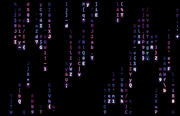
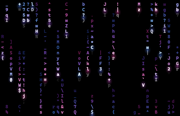
Add Rainbow Spectrum (Vivid) theme and start with a full screen
- New rainbowVivid color: the Pastel theme's 8 hue families at full
  saturation (light = 20% white, medium = pure hue, dark = 70% brightness).
- RainSimulation.prewarm() fast-forwards each new simulation to a steady
  state, so the saver, preview and thumbnails open on a filled screen.
- Regenerated picker thumbnails; README updated for 1.1.0.

diff --git a/Sources/Core/Palette.swift b/Sources/Core/Palette.swift
@@ -73,7 +73,7 @@ extension [[RGB]] {
 
 /// The rain color palette. Raw values are persisted, so don't rename them.
 enum MatrixColor: String, CaseIterable, Sendable {
-    case tokyoNight, rainbowSpectrum
+    case tokyoNight, rainbowSpectrum, rainbowVivid
     case matrixGreen, emerald, lime, mint, cyan, iceBlue, azure, violet
     case magenta, pink, red, orange, amber, gold, white, rainbow
 
@@ -81,6 +81,7 @@ enum MatrixColor: String, CaseIterable, Sendable {
         switch self {
         case .tokyoNight: "Tokyo Night (Neon)"
         case .rainbowSpectrum: "Rainbow Spectrum (Pastel)"
+        case .rainbowVivid: "Rainbow Spectrum (Vivid)"
         case .matrixGreen: "Matrix Green"
         case .emerald: "Emerald"
         case .lime: "Lime"
@@ -104,6 +105,7 @@ enum MatrixColor: String, CaseIterable, Sendable {
         switch self {
         case .tokyoNight: .families(Self.tokyoNightNeon)
         case .rainbowSpectrum: .families(Self.pastelRainbow)
+        case .rainbowVivid: .families(Self.vividRainbow)
         case .rainbow: .rainbow
         case .matrixGreen: .solid(RGB(r: 0.00, g: 1.00, b: 0.25))
         case .emerald: .solid(RGB(r: 0.05, g: 0.80, b: 0.45))
@@ -132,6 +134,17 @@ enum MatrixColor: String, CaseIterable, Sendable {
             hue.mixed(with: .white, amount: 0.6),
             hue.mixed(with: .white, amount: 0.4),
             hue.mixed(with: .white, amount: 0.25).scaled(by: 0.75),
+        ]
+    }
+
+    /// The same hues as `pastelRainbow` at full saturation: a light tint, the
+    /// pure hue, then a deeper shade.
+    static let vividRainbow: [[RGB]] = [0, 30, 55, 120, 185, 220, 270, 315].map { degrees in
+        let hue = RGB.hue(CGFloat(degrees) / 360)
+        return [
+            hue.mixed(with: .white, amount: 0.2),
+            hue,
+            hue.scaled(by: 0.7),
         ]
     }
 

diff --git a/Sources/Core/RainSimulation.swift b/Sources/Core/RainSimulation.swift
@@ -74,6 +74,18 @@ final class RainSimulation {
         mutate(dt: dt)
     }
 
+    /// Fast-forwards until the rain reaches a steady state, so hosts start
+    /// with a full screen instead of an empty one filling from the top.
+    /// Long enough for the first (staggered) wave's slowest possible stream to
+    /// fall all the way through, tail included.
+    func prewarm() {
+        let stagger = max(settings.meanSpawnInterval, 1.5)
+        let longestTrail = Double(rows) * settings.meanTrailFraction * settings.lengthFactorRange.upperBound
+        let seconds = min(stagger + (Double(rows) + longestTrail) / settings.rowsPerSecond, 120)
+        let dt = MatrixScene.frameInterval
+        for _ in 0..<Int(seconds / dt) { step(dt) }
+    }
+
     // MARK: - Private
 
     private func advance(column c: Int, by distance: Double, dt: Double) {

diff --git a/Sources/Core/MatrixScene.swift b/Sources/Core/MatrixScene.swift
@@ -65,6 +65,7 @@ final class MatrixScene {
             settings: settings,
             seed: seed ?? UInt64.random(in: .min ... .max)
         )
+        fresh.prewarm()
         simulation = fresh
         return fresh
     }

diff --git a/README.md b/README.md
@@ -41,7 +41,7 @@ served as the spec, and everything was designed fresh for macOS.
 - Universal binary (Apple silicon + Intel), ad-hoc signed.
 - Builds with **Command Line Tools only**. No Xcode project is needed; a `Makefile` drives `swiftc`.
 - Options sheet with a **live animated preview**.
-- **18 color modes**: Tokyo Night (Neon) and Rainbow Spectrum (Pastel), both multi-color and blendable along streams, plus 15 solid colors and an animated Rainbow.
+- **19 color modes**: Tokyo Night (Neon), Rainbow Spectrum (Pastel) and Rainbow Spectrum (Vivid), all multi-color and blendable along streams, plus 15 solid colors and an animated Rainbow.
 - 5 character sets: Classic ASCII (cmatrix default), Katakana, Katakana + Latin, Binary, Hex.
 - Any installed monospaced font (default CaskaydiaCove NF Bold), 8–48 pt.
 - Adjustable speed and speed variance, density, trail length and length variance,
@@ -51,6 +51,8 @@ served as the spec, and everything was designed fresh for macOS.
 - Toggles for bright white heads, fading trails, glow, and blending colors along streams.
 - Fast: each stream is drawn as a few short same-shade glyph runs (about 2–7 ms
   for a full Retina frame on Apple silicon, glow included).
+- **Starts full**: the rain is fast-forwarded to a steady state before the first
+  frame, so the screen is already filled when the saver starts.
 - Multi-display aware: saving options updates every running instance.
 
 ## Requirements
@@ -98,7 +100,7 @@ Running `build/snapshot` with no arguments lists them.
 | Font | System Monospaced (SF Mono) + every installed font whose letters/digits are fixed-width (includes Nerd Font "NF" builds that macOS doesn't flag as fixed-pitch) | CaskaydiaCove NF Bold (`CaskaydiaCoveNF-Bold`) | Falls back to SF Mono if the font isn't installed. Pick weight by choosing the face (Bold, SemiBold…). Missing glyphs (e.g. katakana) fall back to a system font automatically. |
 | Size | 8–48 pt | 16 | Glyph size. The System Settings thumbnail scales this down to fit. |
 | Characters | Classic ASCII · Katakana · Katakana + Latin · Binary · Hexadecimal | Classic ASCII | Classic is cmatrix's printable ASCII (`!`…`~`). Katakana uses half-width forms U+FF66–FF9D plus digits. |
-| Color | **Tokyo Night (Neon)**, **Rainbow Spectrum (Pastel)**, Matrix Green, Emerald, Lime, Mint, Cyan, Ice Blue, Azure, Violet, Magenta, Pink, Red, Orange, Amber, Gold, White, **Rainbow** | Tokyo Night (Neon) | Tokyo Night uses 9 neon colors, blended along each stream or one per stream (see *Blend colors*): pink `#FF9ED8 #FF4FAE #C2187A`, purple `#CDA8FF #A25CFF #6C2BD9`, blue `#8CD5FF #4D8DFF #2A52D6` (light/medium/dark). Rainbow Spectrum uses 8 hue families at 0°, 30°, 55°, 120°, 185°, 220°, 270° and 315° (red → magenta), each softened toward pastel: light = 60% white, medium = 40% white, dark = 25% white at 75% brightness. Rainbow sweeps hues across the columns and slowly cycles. |
+| Color | **Tokyo Night (Neon)**, **Rainbow Spectrum (Pastel)**, **Rainbow Spectrum (Vivid)**, Matrix Green, Emerald, Lime, Mint, Cyan, Ice Blue, Azure, Violet, Magenta, Pink, Red, Orange, Amber, Gold, White, **Rainbow** | Tokyo Night (Neon) | Tokyo Night uses 9 neon colors, blended along each stream or one per stream (see *Blend colors*): pink `#FF9ED8 #FF4FAE #C2187A`, purple `#CDA8FF #A25CFF #6C2BD9`, blue `#8CD5FF #4D8DFF #2A52D6` (light/medium/dark). Rainbow Spectrum uses 8 hue families at 0°, 30°, 55°, 120°, 185°, 220°, 270° and 315° (red → magenta), each softened toward pastel: light = 60% white, medium = 40% white, dark = 25% white at 75% brightness. Rainbow Spectrum (Vivid) uses the same 8 hues at full saturation: light = 20% white, medium = pure hue, dark = 70% brightness. Rainbow sweeps hues across the columns and slowly cycles. |
 | Speed | 1–10 | 4 | Head speed = `3 × (40/3)^((speed−1)/9)` rows/sec, an exponential curve: 1 → 3, 4 ≈ 7, 7 ≈ 17, 10 → 40. |
 | Speed variance | +0–300% (steps of 25) | +150% | The base Speed is the **floor**: each stream falls at base × a random factor in `1…(1 + v)`, so +150% → 1×–2.5× (≈7–18 rows/s at default speed), like cmatrix `-a`. 0% gives every stream the base speed. |
 | Density | 1–10 (steps of 0.5) | 4.5 | Mean wait before a column launches its next stream, measured from when the previous stream clears the top: `8 s × (0.15/8)^((d−1)/9)`, i.e. 8 s down to 0.15 s. |
@@ -108,7 +110,7 @@ Running `build/snapshot` with no arguments lists them.
 | Gliding motion | on/off | on | Characters stay fixed in the grid while the light glides over them: the white head crossfades smoothly from cell to cell and the trail fades continuously. Off gives the classic cmatrix look, where the lit band steps a whole row at a time. Speed is identical either way. |
 | Bright white heads | on/off | on | Leading glyph drawn pure white (cmatrix `-b`). |
 | Fade trails | on/off | on | Tail dims toward black over 10 steps. Off gives cmatrix's flat, hard-edged look. |
-| Blend colors along streams | on/off | on | Multi-color schemes only (Tokyo Night, Rainbow Spectrum). On: each stream sweeps the theme's whole spectrum (e.g. pink → purple → blue) from head to tail, light shades near the head and dark toward the tail, starting at a random point and direction. Off: each stream is one of the 9 colors. |
+| Blend colors along streams | on/off | on | Multi-color schemes only (Tokyo Night, both Rainbow Spectrums). On: each stream sweeps the theme's whole spectrum (e.g. pink → purple → blue) from head to tail, light shades near the head and dark toward the tail, starting at a random point and direction. Off: each stream is one of the 9 colors. |
 | Glow | on/off | on | Subtle halo behind each head, tinted with its stream's color: a pre-rendered radial-gradient sprite at 1.6× the cell size. |
 
 Settings live in the ScreenSaver defaults domain `com.fussell.MatrixScreenSaver`.
@@ -133,7 +135,7 @@ The `make run` preview app reads and writes a separate, non-sandboxed copy.
 existing ones), give it a `displayName`, and return its `scheme`: `.solid(RGB)`
 for one color, or `.families([[light, medium, dark], …])` for a multi-color theme.
 That gets blending, per-stream colors, the menu swatch and glow automatically
-(see `tokyoNightNeon` and `pastelRainbow`). Then document it in the Color row above.
+(see `tokyoNightNeon`, `pastelRainbow` and `vividRainbow`). Then document it in the Color row above.
 
 ## Project layout
 
@@ -211,7 +213,11 @@ holds a glyph. *Streams* decide which cells are visible.
    (`maxFollowSpeed`). Streams never overlap; a 2-minute simulation found zero overlaps.
 5. Streams are removed once their tail passes the bottom.
 6. **Mutation:** each step, about `cells × rate × dt` random cells get a new glyph.
-7. At startup, columns get staggered cooldowns so the screen fills in gradually.
+7. At startup, columns get staggered cooldowns, then `RainSimulation.prewarm()`
+   fast-forwards (called by `MatrixScene` whenever it builds a simulation) until the
+   slowest first-wave stream could have fallen all the way through, tail included
+   (capped at 120 simulated seconds). Every host therefore opens on a full,
+   steady-state screen instead of an empty one filling from the top.
 
 **Gliding motion (default).** Characters never move; they live in the grid
 exactly as in stepped mode. Only the light glides. With fractional head `h` in
@@ -367,6 +373,18 @@ Keep the build **warning-free**.
 - [ ] Notarized release build (needs a Developer ID).
 
 ## Changelog
+
+### 1.1.0 — 2026-10-26
+
+**Motion**
+- **Starts full**: each new simulation is fast-forwarded to a steady state
+  (`RainSimulation.prewarm()`), so the saver, preview and thumbnails open on a
+  filled screen. Changes every render, so the render-check baseline was regenerated.
+
+**Look**
+- **Rainbow Spectrum (Vivid)** theme (key `rainbowVivid`): the Pastel theme's 8 hue
+  families at full saturation (light = 20% white, medium = pure hue, dark = 70%
+  brightness).
 
 ### 1.0.0 — 2026-10-25
 
